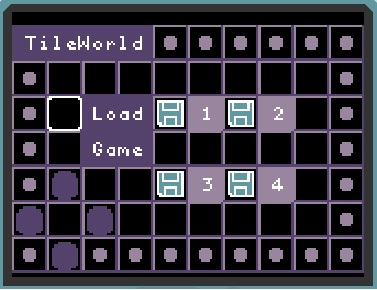
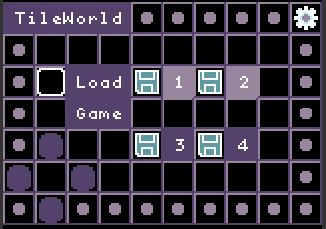
work on documentation

diff --git a/manual.md b/manual.md
@@ -7,6 +7,7 @@
 You can run TileWorld in your [web browser](https://microsoft.github.io/pxt-tileworld/), or on any [MakeCode Arcade device](https://arcade.makecode.com/hardware).
 Simply copy the appropriate [UF2 file](https://github.com/microsoft/pxt-tileworld/releases/) to your MakeCode Arcade device to get started. 
 
+
 # Load Screen and Navigation
 
 The load screen of TileWorld lets you select one of four games to design/program.  
@@ -18,7 +19,38 @@ Assets are saved to flash whenever you transition between screens.
 
 ![load screen](pics/loadScreen.JPG)
 
+The settings wheel (upper right of the load screen) allows you to delete all the current games from the flash settings.  This is useful if you want to load in games from another user (more on this later). You can also selectively delete games, as discussed later.
+
 # Sharing Your TileWorld Games
+
+The easiest way to share a TileWorld game you have created on an Arcade device is to copy the UF2 file from your device and share it with your friend.  The UF2 file includes the flash settings in which your games are stored. When your friend copies this UF2 file to their Arcade device, they will get the games you created.   Keep in mind that if your friend's Arcade device is not the same as yours, this may not work.
+
+# Game Home Page
+
+When you load a game, you will see the game's home page, as shown below:
+
+![load screen](pics/homePage1.JPG)
+
+You have four kinds of tiles and four kinds of sprites to work with. 
+
+## Help
+
+Move the cursor around the screen to get help about all the features available:
+
+![load screen](pics/homePage1.JPG)
+
+You can visit the art gallery to change the art associated with each kind of tile or sprite.  Once you get used to the features available in TileWorld, you can turn off the help suggestions via the gear wheel on your game's home page. 
+
+## Menu bar
+
+Their are four main commands available on the menu bar of the game's home page: map editor, art editor, code editor, and play game.
+
+
+
+
+
+
+
 
 
 
